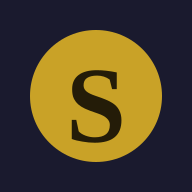
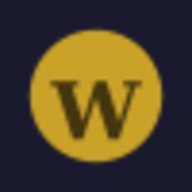
Rebrand Scriptorium -> WriteMe
Brand surfaces: page title, PWA manifest, library + workspace seals,
book title-page series line and colophon copy.
Contracts (pre-release, no migration): storage prefix writeme.v1,
lang/theme keys, IndexedDB writeme.images/.account.v1, export marker
app: writeme, error code notWriteme, palette event, backup filename.
Icons regenerated with the W seal. Identifiers keep useScriptorium.

Changed region(s): [[0.25, 0.3438, 0.75, 0.75], [0.125, 0.125, 0.875, 0.875]]

diff --git a/src/data/store.ts b/src/data/store.ts
@@ -197,7 +197,7 @@ const imageReferenced = (
   || d.bloodlines.some((b) => b.persons.some((p) => p.portraitKey === key));
 
 /** Bloodlines are OPTIONAL in the schema but the store state always carries the array. */
-interface ScriptoriumState extends ProjectData {
+interface WriteMeState extends ProjectData {
   bloodlines: Bloodline[];
   toasts: Toast[];
   seedFlag: boolean;
@@ -405,7 +405,7 @@ interface ScriptoriumState extends ProjectData {
   redoCN(id: string): void;
 }
 
-export const useScriptorium = create<ScriptoriumState>()(
+export const useScriptorium = create<WriteMeState>()(
   persist(
     (set, get) => {
     const armUndo = (collection: UndoCollection, item: unknown, satellites?: UndoSatellites) => {
@@ -605,7 +605,7 @@ export const useScriptorium = create<ScriptoriumState>()(
           if (e instanceof ParseExportError) {
             const error =
               e.code === "invalidJson" ? i18n.t("import.errors.invalidJson")
-              : e.code === "notScriptorium" ? i18n.t("import.errors.notScriptorium")
+              : e.code === "notWriteme" ? i18n.t("import.errors.notWriteme")
               : e.code === "unsupportedVersion" ? i18n.t("import.errors.unsupportedVersion", { version: String(e.version) })
               : i18n.t("import.errors.invalidStructure");
             return { ok: false as const, error };
@@ -3298,7 +3298,7 @@ void (async function bootstrapImages(): Promise<void> {
 })();
 
 // selectors
-export const selectProject = (id: string) => (s: ScriptoriumState): Project | undefined =>
+export const selectProject = (id: string) => (s: WriteMeState): Project | undefined =>
   s.projects.find((p) => p.id === id);
 
 export interface ProjectCounts {
@@ -3313,7 +3313,7 @@ export interface ProjectCounts {
 const byProjectFirst = <T extends { projectId: string }>(rows: readonly T[] | undefined, projectId: string): T | undefined =>
   (rows ?? []).find((r) => r.projectId === projectId);
 
-export const selectCounts = (projectId: string) => (s: ScriptoriumState): ProjectCounts => {
+export const selectCounts = (projectId: string) => (s: WriteMeState): ProjectCounts => {
   const atlas = s.atlases.find((a) => a.projectId === projectId);
   const bloodline = byProjectFirst(s.bloodlines, projectId);
   const oaths = byProjectFirst(s.oathsCharts, projectId);
@@ -3349,12 +3349,12 @@ export const selectCounts = (projectId: string) => (s: ScriptoriumState): Projec
   };
 };
 
-export const selectHistoryFlags = (atlasId: string) => (s: ScriptoriumState): { canUndo: boolean; canRedo: boolean } => ({
+export const selectHistoryFlags = (atlasId: string) => (s: WriteMeState): { canUndo: boolean; canRedo: boolean } => ({
   canUndo: (s.histories[atlasId]?.undo.length ?? 0) > 0,
   canRedo: (s.histories[atlasId]?.redo.length ?? 0) > 0,
 });
 
-export const selectBLHistoryFlags = (bloodlineId: string) => (s: ScriptoriumState): { canUndo: boolean; canRedo: boolean } => {
+export const selectBLHistoryFlags = (bloodlineId: string) => (s: WriteMeState): { canUndo: boolean; canRedo: boolean } => {
   const h = s.histories[blKey(bloodlineId)];
   return { canUndo: (h?.undo.length ?? 0) > 0, canRedo: (h?.redo.length ?? 0) > 0 };
 };

diff --git a/src/features/projects/LibraryPage.test.tsx b/src/features/projects/LibraryPage.test.tsx
@@ -24,19 +24,19 @@ beforeEach(() => {
 
 describe("library storage usage", () => {
   it("shows the storage usage line next to the backup buttons", () => {
-    localStorage.setItem("scriptorium.v1", "x".repeat(2 * 1024 * 1024));
+    localStorage.setItem("writeme.v1", "x".repeat(2 * 1024 * 1024));
     render(wrap());
     expect(screen.getByText(/Storage used: 2\.0 MB of ~5 MB/)).toBeInTheDocument();
   });
 
   it("no warning below 80%", () => {
-    localStorage.setItem("scriptorium.v1", "x".repeat(3 * 1024 * 1024));
+    localStorage.setItem("writeme.v1", "x".repeat(3 * 1024 * 1024));
     render(wrap());
     expect(screen.queryByText(/almost full/i)).toBeNull();
   });
 
   it("warns at or above 80% of the approximated quota", () => {
-    localStorage.setItem("scriptorium.v1", "x".repeat(Math.ceil(4.2 * 1024 * 1024)));
+    localStorage.setItem("writeme.v1", "x".repeat(Math.ceil(4.2 * 1024 * 1024)));
     render(wrap());
     expect(screen.getByText(/almost full/i)).toBeInTheDocument();
   });
@@ -144,7 +144,7 @@ describe("LibraryPage hub", () => {
     expect(screen.getByRole("heading", { name: "Meus mundos" })).toBeInTheDocument();
     expect(screen.getByRole("button", { name: "Novo mundo" })).toBeInTheDocument();
     expect(document.documentElement.lang).toBe("pt-BR");
-    expect(localStorage.getItem("scriptorium.lang")).toBe("pt-BR");
+    expect(localStorage.getItem("writeme.lang")).toBe("pt-BR");
   });
 });
 
@@ -162,14 +162,14 @@ describe("library backup", () => {
     fireEvent.click(screen.getByRole("button", { name: "Download backup" }));
     expect(clickSpy).toHaveBeenCalledTimes(1);
     const anchor = clickSpy.mock.instances[0] as unknown as HTMLAnchorElement;
-    expect(anchor.getAttribute("download")).toMatch(/^scriptorium-backup-\d{4}-\d{2}-\d{2}\.json$/);
+    expect(anchor.getAttribute("download")).toMatch(/^writeme-backup-\d{4}-\d{2}-\d{2}\.json$/);
     const text = await new Promise<string>((resolve) => {
       const reader = new FileReader();
       reader.onload = () => resolve(String(reader.result));
       reader.readAsText(captured as Blob);
     });
     const payload = JSON.parse(text);
-    expect(payload.app).toBe("scriptorium");
+    expect(payload.app).toBe("writeme");
     expect(payload.projects.map((p: { name: string }) => p.name)).toContain("Shimradis");
     delete (URL as unknown as Record<string, unknown>).createObjectURL;
     delete (URL as unknown as Record<string, unknown>).revokeObjectURL;

diff --git a/src/data/schema-versions.test.ts b/src/data/schema-versions.test.ts
@@ -131,9 +131,9 @@ describe("validateProjectData — bloodlines", () => {
 });
 
 describe("serialize", () => {
-  it("case 6: writes version 1 with the scriptorium marker", () => {
+  it("case 6: writes version 1 with the writeme marker", () => {
     const doc = JSON.parse(serialize(base)) as { app: string; version: number };
-    expect(doc.app).toBe("scriptorium");
+    expect(doc.app).toBe("writeme");
     expect(doc.version).toBe(1);
   });
   it("keeps data fields alongside the header (bloodlines included)", () => {
@@ -145,7 +145,7 @@ describe("serialize", () => {
 
 describe("parseExport", () => {
   it("case 2: a doc without bloodlines normalizes to []", () => {
-    const doc = JSON.stringify({ app: "scriptorium", version: 1, ...base });
+    const doc = JSON.stringify({ app: "writeme", version: 1, ...base });
     expect(parseExport(doc).bloodlines).toEqual([]);
   });
   it("case 5: v1 round-trips with bloodlines", () => {
@@ -155,17 +155,17 @@ describe("parseExport", () => {
   });
   it("case 1: any version other than 1 is rejected", () => {
     for (const version of [0, 2, 3]) {
-      expect(() => parseExport(JSON.stringify({ app: "scriptorium", version, ...base })))
+      expect(() => parseExport(JSON.stringify({ app: "writeme", version, ...base })))
         .toThrow("unsupportedVersion");
     }
   });
   it("rejects malformed bloodlines in a valid doc", () => {
     expect(() => parseExport(JSON.stringify({
-      app: "scriptorium", version: 1, ...base,
+      app: "writeme", version: 1, ...base,
       bloodlines: [blEnvelope({ persons: [badPerson({ x: "no" })] })],
     })))
       .toThrow("invalidStructure");
-    expect(() => parseExport(JSON.stringify({ app: "scriptorium", version: 1, ...base, bloodlines: null })))
+    expect(() => parseExport(JSON.stringify({ app: "writeme", version: 1, ...base, bloodlines: null })))
       .toThrow("invalidStructure");
   });
 });

diff --git a/src/data/schema.test.ts b/src/data/schema.test.ts
@@ -68,13 +68,13 @@ describe("validateProjectData", () => {
 
 describe("parseExport", () => {
   it("round-trips", () => {
-    const text = JSON.stringify({ app: "scriptorium", version: 1, ...valid });
+    const text = JSON.stringify({ app: "writeme", version: 1, ...valid });
     expect(parseExport(text)).toEqual({ ...valid, bloodlines: [], factionWebs: [], calendars: [], plotBoards: [], timelines: [], oathsCharts: [], wellsprings: [], conlangs: [] });
   });
   it("throws with clear message on invalid payload", () => {
     expect(() => parseExport("not json")).toThrow("invalidJson");
-    expect(() => parseExport(JSON.stringify({ app: "other" }))).toThrow("notScriptorium");
-    expect(() => parseExport(JSON.stringify({ app: "scriptorium", version: 1 }))).toThrow("invalidStructure");
+    expect(() => parseExport(JSON.stringify({ app: "other" }))).toThrow("notWriteme");
+    expect(() => parseExport(JSON.stringify({ app: "writeme", version: 1 }))).toThrow("invalidStructure");
   });
   it("emptyProjectData is fresh and valid", () => {
     expect(validateProjectData(emptyProjectData())).toBe(true);
@@ -196,7 +196,7 @@ describe("validateProjectDataDetailed", () => {
 
 describe("parseExport error detail", () => {
   it("attaches the first issue path to invalidStructure", () => {
-    const payload = { app: "scriptorium", version: 1, ...valid, entries: [{ ...valid.entries[0], body: 9 as unknown as string }] };
+    const payload = { app: "writeme", version: 1, ...valid, entries: [{ ...valid.entries[0], body: 9 as unknown as string }] };
     try {
       parseExport(JSON.stringify(payload));
       expect.unreachable("expected a throw");

diff --git a/src/data/store.test.ts b/src/data/store.test.ts
@@ -113,7 +113,7 @@ describe("corrupt recovery toast (spec §6)", () => {
       version: 1,
     };
     localStorage.setItem(STORE_KEY, JSON.stringify(doc));
-    localStorage.setItem("scriptorium.corrupt.2026-01-01T00:00:00.000Z", "{old");
+    localStorage.setItem("writeme.corrupt.2026-01-01T00:00:00.000Z", "{old");
     act(() => void useScriptorium.persist.rehydrate());
     expect(useScriptorium.getState().toasts).toHaveLength(0);
   });
@@ -149,14 +149,14 @@ describe("persist + corruption", () => {
     const corrupt = "{not json at all";
     localStorage.setItem(STORE_KEY, corrupt);
     expect(localStoragePersistence.getItem(STORE_KEY)).toBeFalsy();
-    const keys = storageKeys().filter((k) => k.startsWith("scriptorium.corrupt."));
+    const keys = storageKeys().filter((k) => k.startsWith("writeme.corrupt."));
     expect(keys).toHaveLength(1);
     expect(localStorage.getItem(keys[0])).toBe(corrupt);
   });
   it("shape-invalid payload is backed up too", () => {
     localStorage.setItem(STORE_KEY, JSON.stringify({ state: { projects: "nope" }, version: 0 }));
     expect(localStoragePersistence.getItem(STORE_KEY)).toBeFalsy();
-    const keys = storageKeys().filter((k) => k.startsWith("scriptorium.corrupt."));
+    const keys = storageKeys().filter((k) => k.startsWith("writeme.corrupt."));
     expect(keys).toHaveLength(1);
   });
   it("import rejects invalid payloads without touching state", () => {

diff --git a/src/data/schema.ts b/src/data/schema.ts
@@ -495,10 +495,10 @@ export function emptyProjectData(): ProjectData & { bloodlines: Bloodline[] } {
 }
 
 export function serialize(data: ProjectData): string {
-  return JSON.stringify({ app: "scriptorium", version: 1, ...data });
+  return JSON.stringify({ app: "writeme", version: 1, ...data });
 }
 
-export type ParseExportErrorCode = "invalidJson" | "notScriptorium" | "unsupportedVersion" | "invalidStructure";
+export type ParseExportErrorCode = "invalidJson" | "notWriteme" | "unsupportedVersion" | "invalidStructure";
 
 /** Stable code so callers can translate the message in the active locale. */
 export class ParseExportError extends Error {
@@ -516,7 +516,7 @@ export function parseExport(text: string): ProjectData {
     throw new ParseExportError("invalidJson");
   }
   const d = doc as { app?: unknown; version?: unknown } & ProjectData;
-  if (!d || d.app !== "scriptorium") throw new ParseExportError("notScriptorium");
+  if (!d || d.app !== "writeme") throw new ParseExportError("notWriteme");
   if (d.version !== 1) throw new ParseExportError("unsupportedVersion", d.version);
   const issues = validateProjectDataDetailed(d);
   if (issues.length > 0) {

diff --git a/src/features/manuscript/buildBook.ts b/src/features/manuscript/buildBook.ts
@@ -166,7 +166,7 @@ export function buildBookHtml(manuscript: Manuscript): string {
   // the branded page carries it (no second book-title before the chapters);
   // without it, a centered book-title page stands in.
   const titleBlock = b.titlePage
-    ? `<section class="front-matter title-page display"><p class="tp-series">Scriptorium</p><h1 class="tp-title">${escapeText(manuscript.title)}</h1>${manuscript.author ? `<p class="tp-author">${escapeText(manuscript.author)}</p>` : ""}</section>`
+    ? `<section class="front-matter title-page display"><p class="tp-series">WriteMe</p><h1 class="tp-title">${escapeText(manuscript.title)}</h1>${manuscript.author ? `<p class="tp-author">${escapeText(manuscript.author)}</p>` : ""}</section>`
     : `<section class="front-matter book-title-page display"><h1 class="book-title">${escapeText(manuscript.title)}</h1>${manuscript.author ? `<p class="book-author">${escapeText(manuscript.author)}</p>` : ""}</section>`;
   const copyright = fm.copyright ? copyrightPage(manuscript, b) : "";
   const dedication = dedicationSection(b);

diff --git a/src/features/workspace/WorkspaceLayout.tsx b/src/features/workspace/WorkspaceLayout.tsx
@@ -71,7 +71,7 @@ export function WorkspaceLayout() {
             className="flex min-h-0 flex-1 flex-col gap-1.5 overflow-y-auto [scrollbar-width:none] [&::-webkit-scrollbar]:hidden max-[720px]:contents"
           >
             <div className="mb-3 shrink-0">
-              <Seal letter="S" />
+              <Seal letter="W" />
             </div>
             <Link
               to={`/p/${projectId}`}
@@ -137,7 +137,7 @@ export function WorkspaceLayout() {
             <button
               type="button"
               className="flex cursor-pointer items-center gap-2 border-0 bg-none px-3 py-[10px] text-left text-xs uppercase tracking-[0.1em] text-slate hover:text-parchment max-[720px]:hidden"
-              onClick={() => window.dispatchEvent(new Event("scriptorium:open-palette"))}
+              onClick={() => window.dispatchEvent(new Event("writeme:open-palette"))}
             >
               {t("workspace.search")} <span className="text-[9px] tracking-[0.06em] opacity-70">Ctrl+K</span>
             </button>

diff --git a/src/data/schema-timeline.test.ts b/src/data/schema-timeline.test.ts
@@ -62,7 +62,7 @@ describe("validateProjectData — timeline eras", () => {
 describe("serialize / parseExport — version 1", () => {
   it("4. writes version 1 and round-trips a wire", () => {
     const doc = JSON.parse(serialize({ ...base, timelines: [wire()] as TimelineWire[] })) as { app: string; version: number };
-    expect(doc.app).toBe("scriptorium");
+    expect(doc.app).toBe("writeme");
     expect(doc.version).toBe(1);
     const parsed = parseExport(serialize({ ...base, timelines: [wire()] as TimelineWire[] }));
     expect(parsed.timelines![0].eras).toHaveLength(1);
@@ -70,7 +70,7 @@ describe("serialize / parseExport — version 1", () => {
 
   it("4. any version other than 1 is unsupported", () => {
     for (const version of [0, 2, 3]) {
-      expect(() => parseExport(JSON.stringify({ app: "scriptorium", version, ...base }))).toThrow("unsupportedVersion");
+      expect(() => parseExport(JSON.stringify({ app: "writeme", version, ...base }))).toThrow("unsupportedVersion");
     }
   });
 });

diff --git a/src/features/manuscript/export.test.tsx b/src/features/manuscript/export.test.tsx
@@ -486,7 +486,7 @@ describe("buildBookHtml front matter + parts", () => {
     expect(html).not.toContain("ISBN");
     expect(html).not.toContain("edition");
     expect(html).not.toContain("©");
-    expect(html).toContain("Cover and interior set in Scriptorium.");
+    expect(html).toContain("Cover and interior set in WriteMe.");
   });
 
   it("a chapter whose part no longer exists renders with the ungrouped ones", async () => {
@@ -680,7 +680,7 @@ describe("back matter + scene ornament", () => {
     // typeset from the config: the label of the configured stack + the trim
     expect(html).toContain("Set in Georgia.");
     expect(html).toContain("6in 9in");
-    expect(html).toContain("Scriptorium.");
+    expect(html).toContain("WriteMe.");
     expect(html.indexOf("about-author")).toBeLessThan(html.indexOf("colophon"));
     expect(html.indexOf("colophon")).toBeLessThan(html.indexOf("</article>"));
   });

diff --git a/src/features/workspace/Overview.test.tsx b/src/features/workspace/Overview.test.tsx
@@ -30,7 +30,7 @@ beforeEach(() => {
 describe("shell routes", () => {
   it("root shows library", async () => {
     await at("/");
-    expect(screen.getByText("Scriptorium")).toBeInTheDocument();
+    expect(screen.getByText("WriteMe")).toBeInTheDocument();
   });
 
   it("unknown project redirects to library with a toast", async () => {
@@ -38,7 +38,7 @@ describe("shell routes", () => {
     await waitFor(() => {
       expect(useScriptorium.getState().toasts.some((t) => /removed/i.test(t.message))).toBe(true);
     });
-    expect(screen.getByText("Scriptorium")).toBeInTheDocument();
+    expect(screen.getByText("WriteMe")).toBeInTheDocument();
   });
 
   it("workspace overview shows counts and rail sections", async () => {

diff --git a/src/features/entries/categories.test.ts b/src/features/entries/categories.test.ts
@@ -68,6 +68,6 @@ describe("schema v2 — entry sections + summary + 15 categories", () => {
     };
     expect(validateProjectData(d)).toBe(true);
     // legacy category names ride a current doc — versions are a separate concern
-    expect(parseExport(JSON.stringify({ app: "scriptorium", version: 1, ...d }))).toEqual({ ...d, bloodlines: [], factionWebs: [], calendars: [], plotBoards: [], timelines: [], oathsCharts: [], wellsprings: [], conlangs: [] });
+    expect(parseExport(JSON.stringify({ app: "writeme", version: 1, ...d }))).toEqual({ ...d, bloodlines: [], factionWebs: [], calendars: [], plotBoards: [], timelines: [], oathsCharts: [], wellsprings: [], conlangs: [] });
   });
 });
